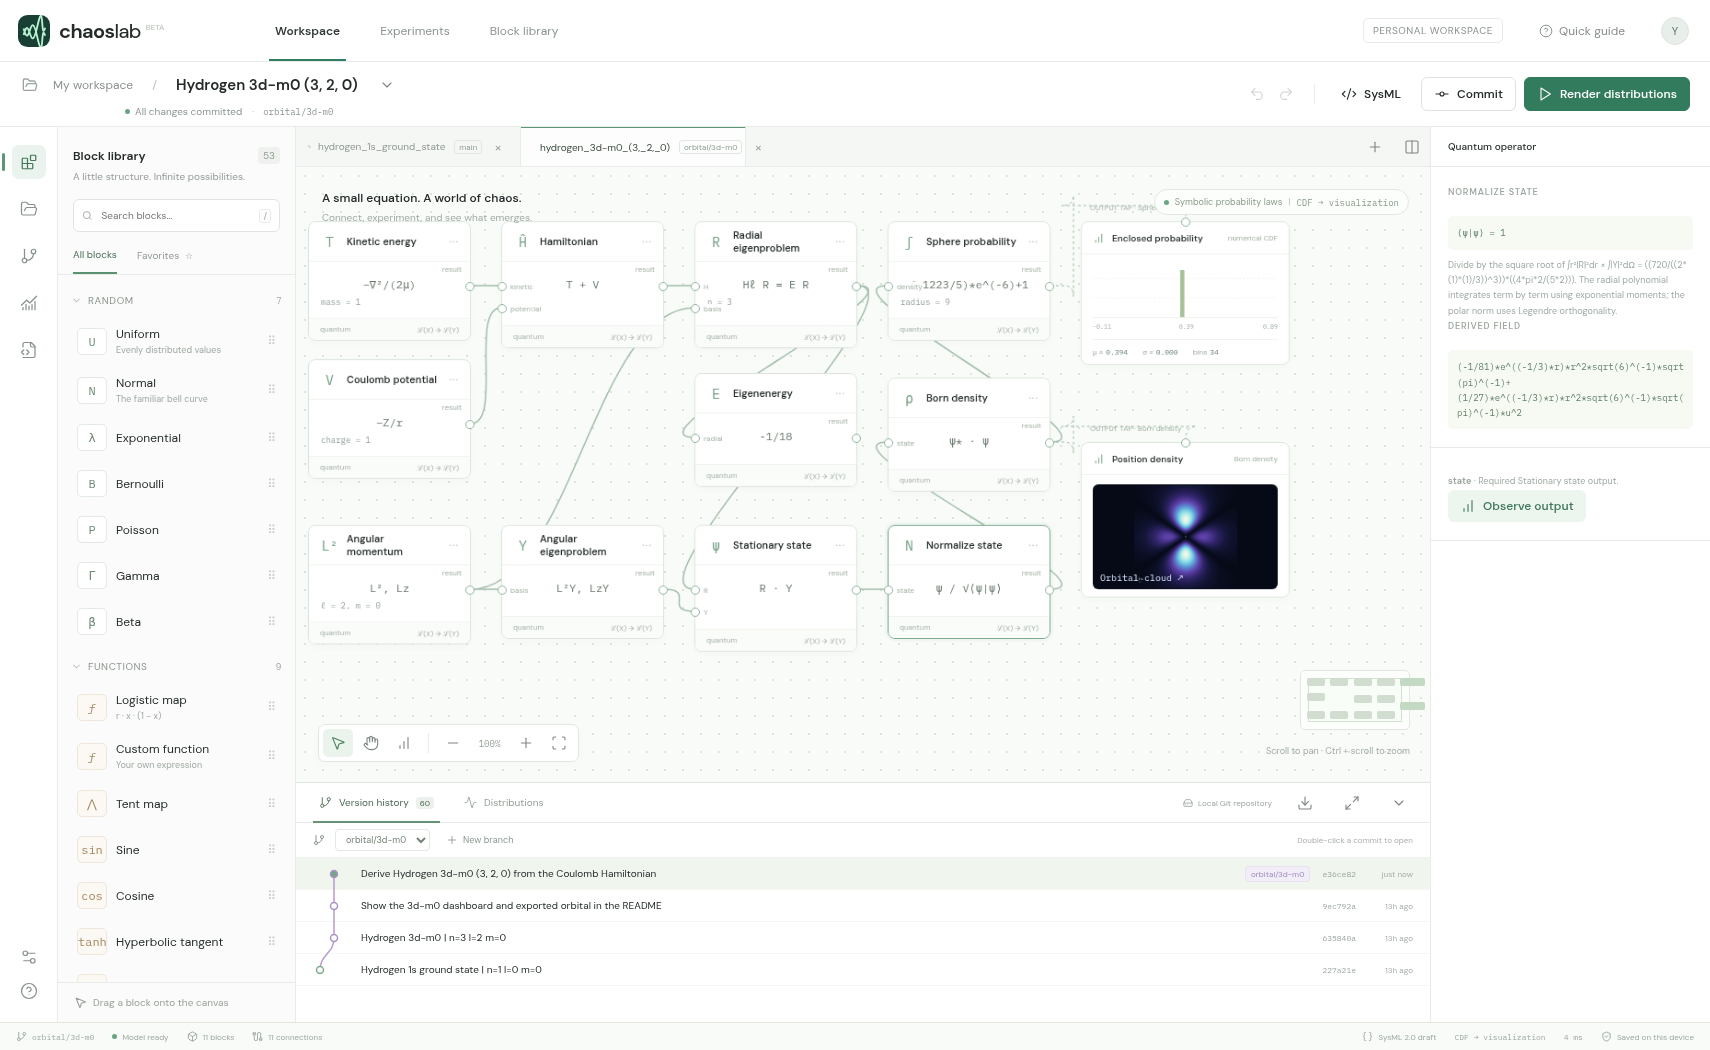
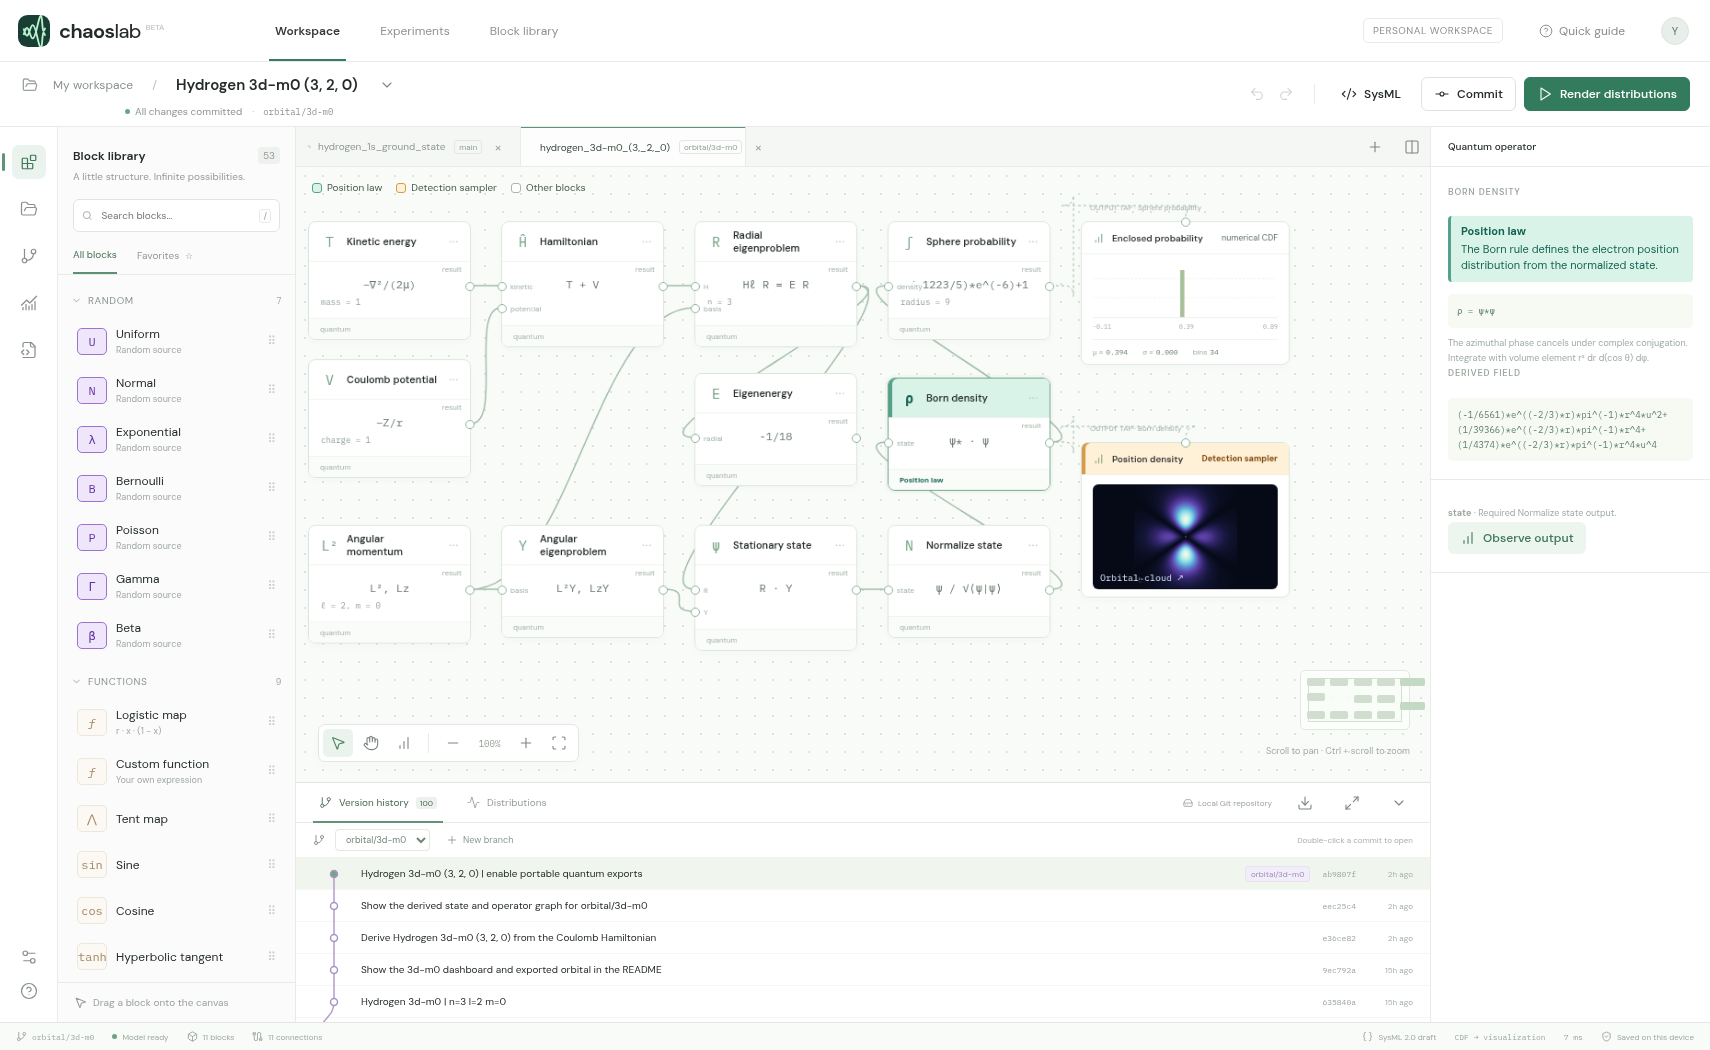
Hydrogen 3d-m0 (3, 2, 0) | identify the position law and detection sampler

diff --git a/studio.py b/studio.py
@@ -10,7 +10,7 @@ import tempfile
 import webbrowser
 
 ROOT = Path(__file__).resolve().parent
-STUDIO_REV = "1cc30c5632f1fe1f79a11ab6730f82c36a6c01e4"
+STUDIO_REV = "8657d6ecd3aa33a5a28f43219d5d6bfb8aa3edcc"
 STUDIO_REPO = "https://github.com/wa200508/chaos_lab.git"
 
 

diff --git a/README.md b/README.md
@@ -6,6 +6,8 @@ Open **Version history** in Chaos Lab to explore the 20 hydrogen designs in this
 
 The connected Hamiltonian and eigenstate solvers give $E=-1/18$ Hartree for this state.
 
+On the canvas, teal **Position law** marks where the Born rule defines the distribution of electron positions. Amber **Detection sampler** marks the tap that draws positions for the projected cloud. The central slice evaluates the density directly.
+
 ![Chaos Lab dashboard with the 3d model, m = 0, open in version history](dashboard.png)
 
 Radial nodes: 0. Polar nodes: 2. Plot half-width: 18 Bohr radii.
